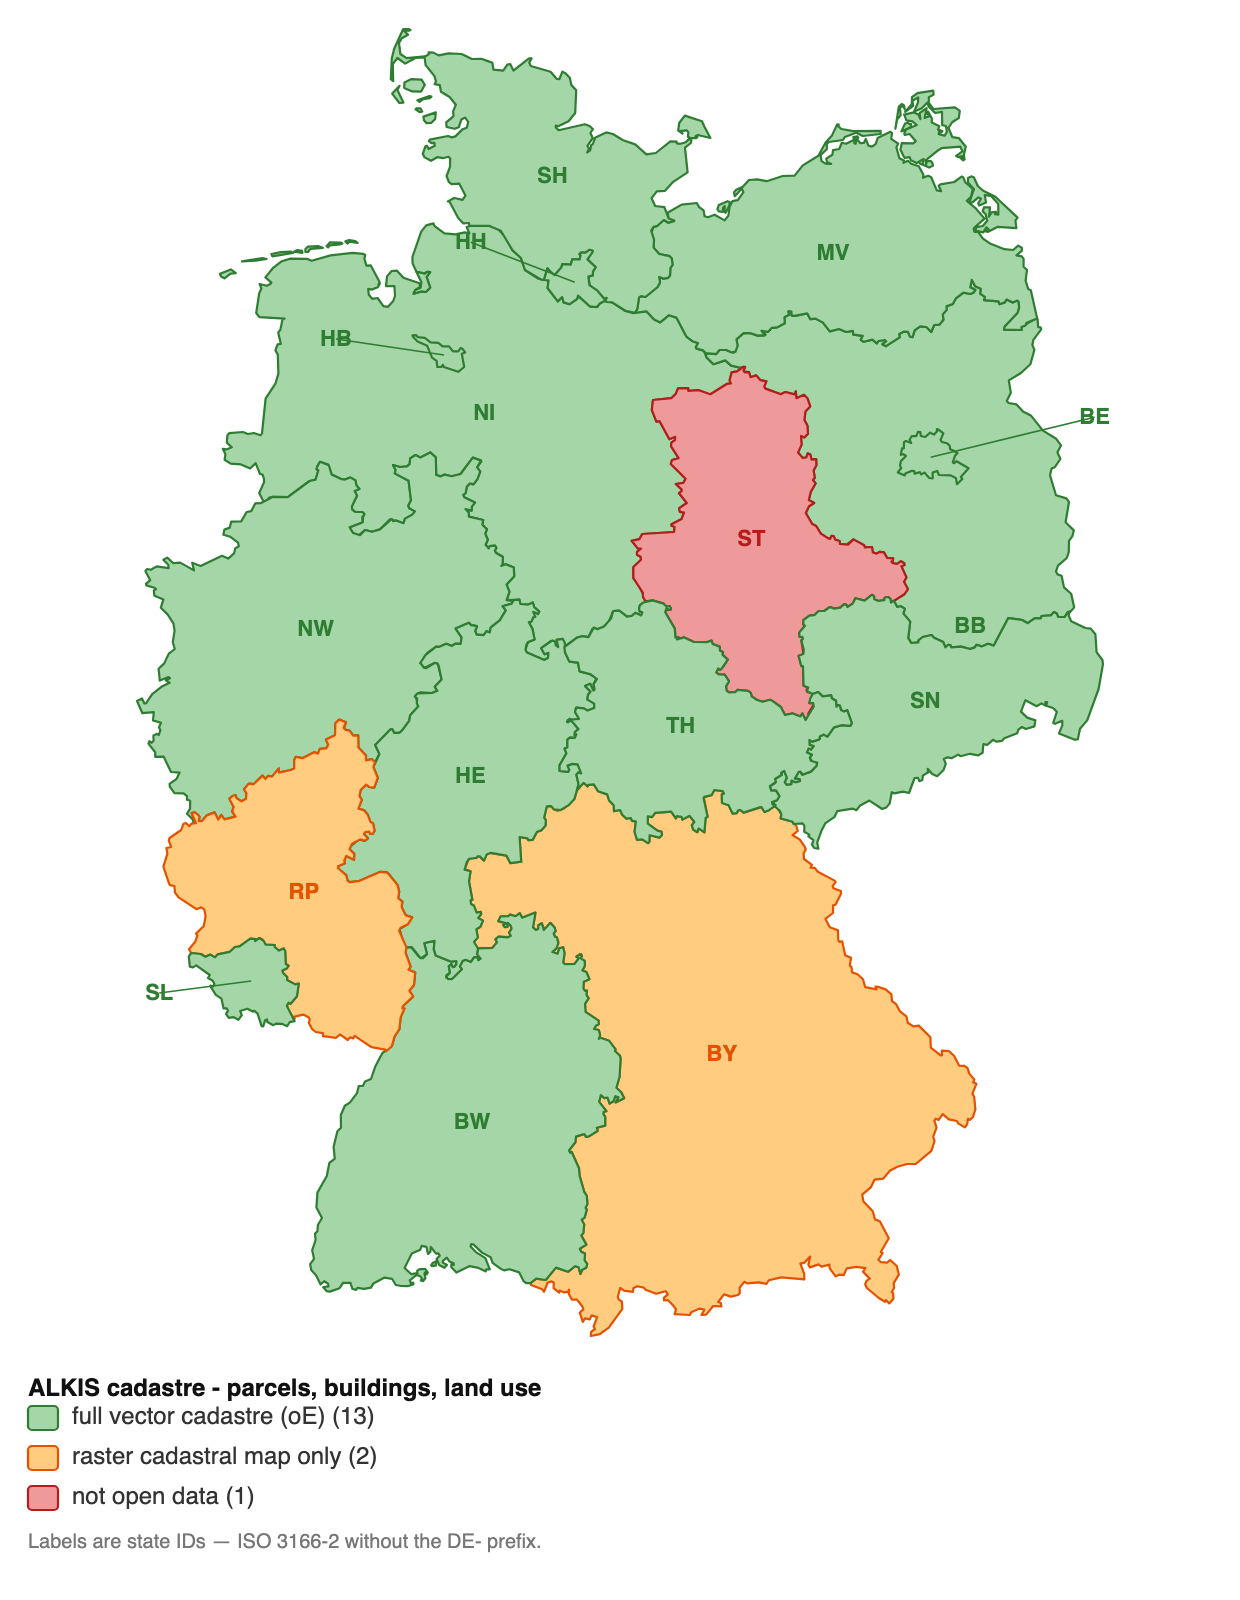
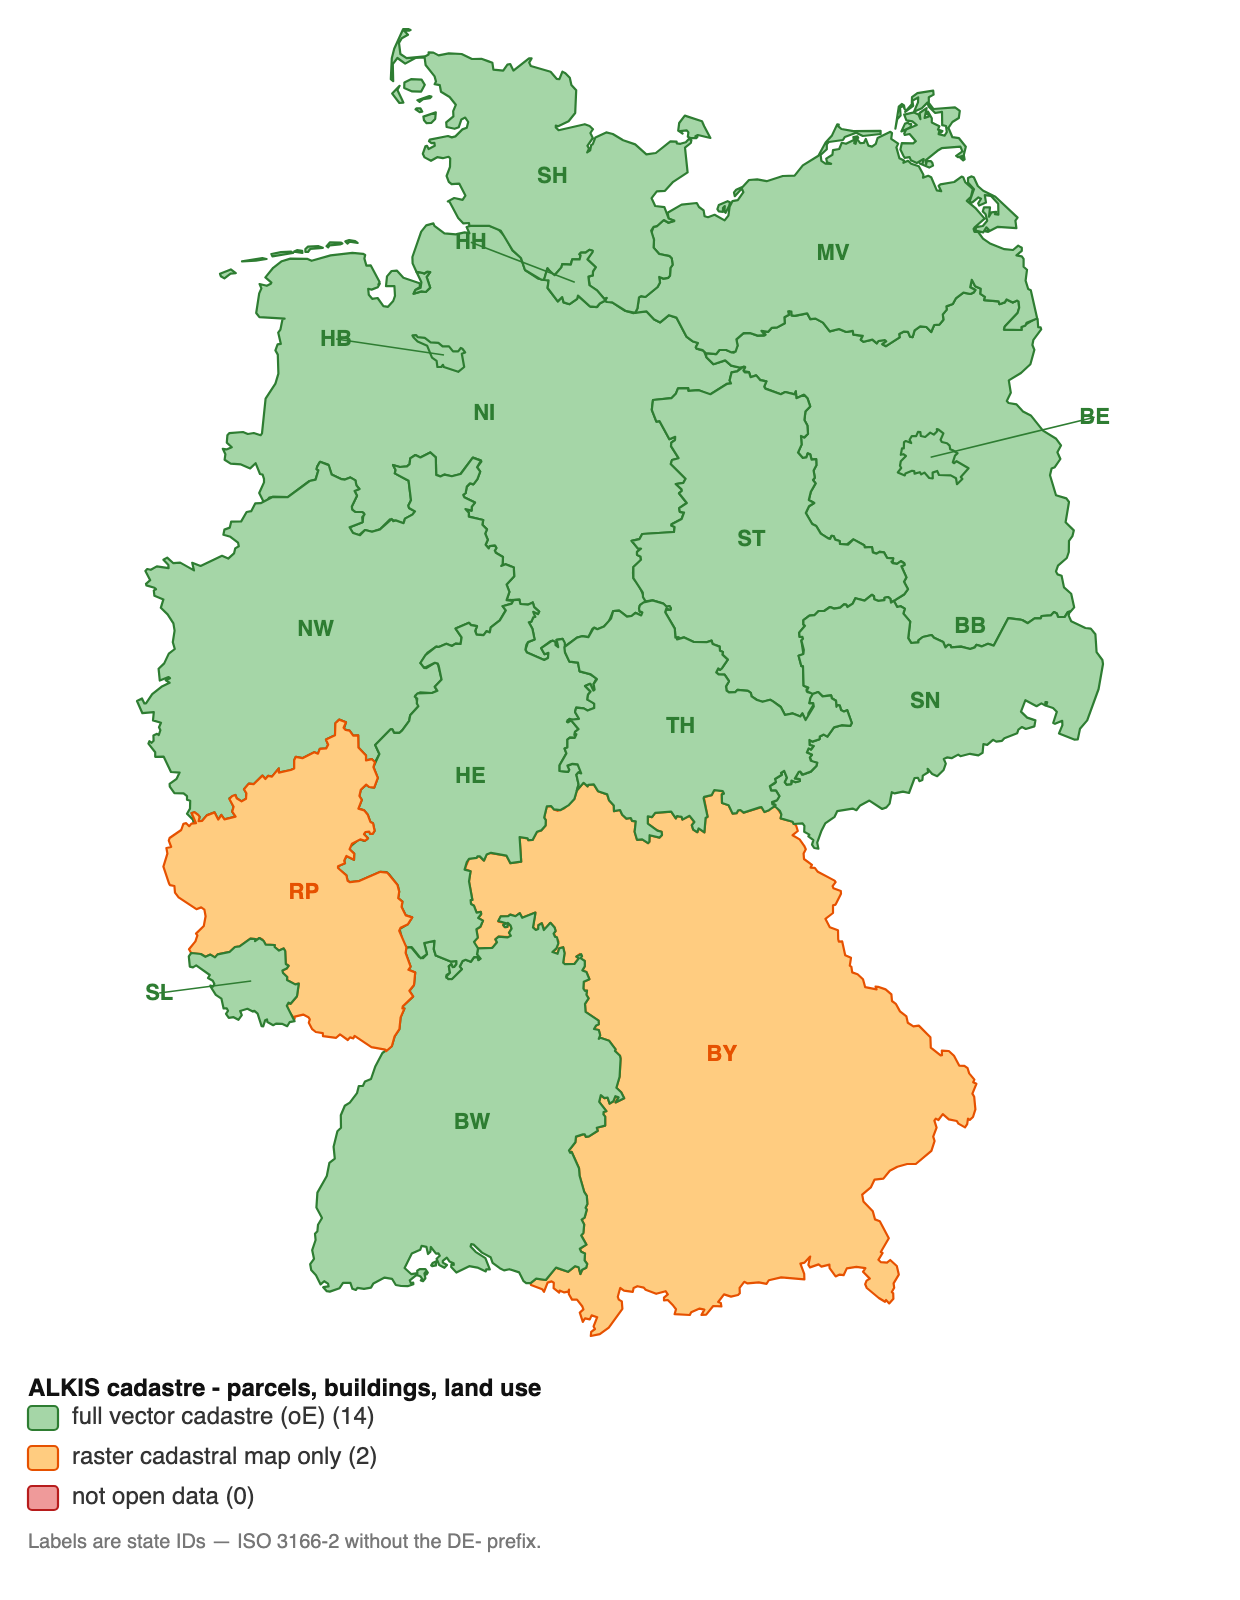
Sachsen-Anhalt does publish open ALKIS — correct the record
ST was listed as the one closed cadastre in Germany, needing a formal
request to LVermGeo. That is wrong. LVermGeo publishes

  ST_LVermGeo_ALKIS_WFS_OpenData/guest

an anonymous WFS 2.0 under DL-DE/BY 2.0, carrying ave:Flurstueck
(2,701,016), ave:GebaeudeBauwerk (1,737,515) and ave:Nutzung. Verified
2026-07-29: GetCapabilities, STARTINDEX paging across disjoint pages,
and a two-page download of real GML; sampled Salzwedel, Magdeburg,
Halle, Quedlinburg and Dessau for statewide spread.

It is the ALKIS-vereinfacht 2.0 schema, not full NAS — geometry plus
flstkennz/gemarkung/flur/flaeche/lagebeztxt, no Punktinformationen —
the same trade NW's gru_vereinfacht and SH's GeoJSON already make, so
it counts as green on the cadastre map.

  · download_alkis.sh: plan_st refused to run; it now drives the
    existing wfs2 engine with three datasets. No engine changes needed.
  · The cadastre map goes 13/2/1 -> 14/2/0. Nowhere in Germany is the
    cadastre closed.
  · The content gaps drop from three to two, BY and RP.
  · Footprints: ST now has a second route beside the Hausumringe ZIP.

Changed region(s): [[0.4903, 0.2188, 0.7355, 0.4688]]

diff --git a/coverage_map.py b/coverage_map.py
@@ -15,9 +15,9 @@ the answers on geometry, so a glance replaces a table read.
             red    terrain only -- the state publishes no point cloud                    (2)
 
   alkis     what does the state's cadastre actually contain?
-            green  full vector ALKIS ohne Eigentuemer                                   (13)
+            green  full vector ALKIS ohne Eigentuemer                                   (14)
             orange raster cadastral map only -- a picture of the parcels, not geometry   (2)
-            red    not open data                                                         (1)
+            red    not open data                                                         (0)
 
 Colour is per-map, not per-tier, because "worst" is a different question on each. The lidar
 map inverts the other two: red is the state with no point cloud to fetch, orange the one
@@ -74,7 +74,7 @@ HOUSES = {
     "rp": True,   # HAUSUMRINGE_RP.zip with a .meta4
     "sl": True,   # inside the per-Landkreis ALKIS packages
     "sn": True,   # hu_sn_shape.zip (ranged GET -- the share 401s on HEAD)
-    "st": True,   # Hausumringe.zip, direct; no ALKIS to carry it
+    "st": True,   # Hausumringe.zip, direct; also ave:GebaeudeBauwerk in the ALKIS WFS
     "sh": True,   # inside the statewide ALKIS GeoJSON
     "th": False,  # HU/HK are CAPTCHA-gated; ALKIS Shape/NAS is not, but see note below
 }

diff --git a/bundeslaender_to_geojson.py b/bundeslaender_to_geojson.py
@@ -103,7 +103,9 @@ COVERAGE = {
                lidar_dgm1=True, lidar_las=True, lidar_script=None, lidar_bbox=None,
                lidar_note="Open since 2023 including classified laser scan, but the advertised "
                           "Atom endpoint was not locatable and the web UI caps selection at 5 tiles.",
-               alkis="none", alkis_engine=None, alkis_spatial="none"),
+               # ALKIS-vereinfacht 2.0 over an anonymous WFS 2.0 (ST_LVermGeo_ALKIS_WFS_OpenData):
+               # parcels, buildings and Nutzung, no Punktinformationen. Verified 2026-07-29.
+               alkis="full", alkis_engine="wfs2", alkis_spatial="exact"),
     "th": dict(name_short="Thueringen",
                lidar_dgm1=True, lidar_las=True, lidar_script=None, lidar_bbox=None,
                lidar_note="gaialight app; overview.php/details.php need a 'type' key that is not "

diff --git a/README.md b/README.md
@@ -8,7 +8,7 @@ found, not because the data is gated.
 | Data | Downloader | Coverage |
 |------|------------|----------|
 | **LiDAR / terrain** | `download_<id>_lidar.sh` (`las`, `dgm1`) | 9 of 16 states |
-| **ALKIS (cadastre)** | `download_alkis.sh <id>` | 15 of 16 states |
+| **ALKIS (cadastre)** | `download_alkis.sh <id>` | 16 of 16 states |
 | **Hauskoordinaten / Hausumringe** | *(source inventory only, no script yet)* | [`hauskoordinaten-hausumringe.md`](hauskoordinaten-hausumringe.md) |
 | **Nationwide parcels, paid** | *(not scriptable — ships on a USB drive)* | [`flurstuecke-commercial.md`](flurstuecke-commercial.md) |
 
@@ -69,7 +69,7 @@ its `.png`, same image as vector, with a per-state tooltip the PNG cannot carry.
 | **BY** | Bayern | plots | Same single gap: ALKIS-Parzellarkarte is raster-only, vector parcels are sold through GeodatenOnline. Hausumringe are open (CC BY 4.0); Hauskoordinaten are priced. |
 | **BW** | Baden-Württemberg | point cloud | Full ALKIS + HU + HK, 125 GB of DGM1 — but the `3DM` point cloud is flagged inactive and every URL 404s. |
 | **NI** | Niedersachsen | point cloud | STAC exposes `dgm1` only. Cadastre and footprints are fine (`gebaeude` WFS); the standalone HK/HU products are priced. |
-| **TH**, **SH**, **ST**, **HE**, **HH**, **HB**, **SL** | — | point cloud + DTM | No anonymous bulk LiDAR endpoint found — portals, CAPTCHAs and order clients, not access restrictions. ST additionally has no open ALKIS at all. |
+| **TH**, **SH**, **ST**, **HE**, **HH**, **HB**, **SL** | — | point cloud + DTM | No anonymous bulk LiDAR endpoint found — portals, CAPTCHAs and order clients, not access restrictions. Their cadastre and footprints are fine. |
 
 ## Fetching all four today
 
@@ -177,11 +177,11 @@ Nutzung*), addresses. Each state runs its own, so each publishes it differently 
 all. Owner names (*Eigentümerangaben*) are **never** open data anywhere; what states release
 is the *ohne Eigentümer* (oE) variant.
 
-<img src="alkis_map.png" alt="Map of the 16 Bundesländer coloured by cadastre openness: green for the 13 states publishing full vector ALKIS ohne Eigentümer, orange for BY and RP which publish a raster cadastral map only, red for ST which does not publish it at all" width="560">
+<img src="alkis_map.png" alt="Map of the 16 Bundesländer coloured by cadastre openness: green for the 14 states publishing vector ALKIS ohne Eigentümer, orange for BY and RP which publish a raster cadastral map only" width="560">
 
-Thirteen states are green. The two orange ones are not a delivery problem — BY and RP publish
+Fourteen states are green. The two orange ones are not a delivery problem — BY and RP publish
 their cadastre as **raster**, so the download works fine and parcel geometry simply is not in
-what arrives. Only ST is closed.
+what arrives. **No state is fully closed.**
 
 **"Login"** below means a user account is needed to get the data; **"anonymous"** means plain
 HTTP with no credentials.
@@ -201,7 +201,7 @@ HTTP with no credentials.
 | **RP** | Rheinland-Pfalz | ⚠ **raster only** | **anonymous** | Metalink-4 | GeoTIFF cadastral map · 1 km tile | DL-DE/BY 2.0 |
 | **SL** | Saarland | ✅ full (oE) | **anonymous** | public WebDAV share | NAS, Shape · Landkreis (7) | DL-DE/BY 2.0 |
 | **SN** | Sachsen | ✅ full (oE) | **anonymous** | single ZIP | NAS · statewide | DL-DE/BY 2.0 |
-| **ST** | Sachsen-Anhalt | ❌ **not open** | — | (formal request to LVermGeo) | — | — |
+| **ST** | Sachsen-Anhalt | ✅ vereinfacht (oE) | **anonymous** | WFS 2.0 only | GML · statewide (~2.7 M parcels) | DL-DE/BY 2.0 |
 | **SH** | Schleswig-Holstein | ✅ full (oE) | **anonymous** | single file | GeoJSON · statewide (~243 MB) | CC BY 4.0 |
 | **TH** | Thüringen | ✅ full (oE) | **anonymous** | INSPIRE ATOM feed | Shape, NAS · Flur (~16,500) | DL-DE/BY 2.0 |
 
@@ -226,16 +226,15 @@ What `download_alkis.sh` actually fetches, per state:
 | `sn` | Sachsen | `nas` | statewide | one ZIP |
 | `sh` | Schleswig-Holstein | `geojson` | statewide | ~243 MB |
 | `th` | Thüringen | `shape`, `nas` | Flur (~16,500) | ~1.2 GB |
-| `st` | Sachsen-Anhalt | — | — | **not published** |
+| `st` | Sachsen-Anhalt | `flurstueck`, `gebaeude`, `nutzung` | WFS pages | ~2.7 M parcels |
 
 `bw`, `by` and `rp` come with a caveat printed at run time — Bayern publishes no open vector
-parcels and RP only a rasterised cadastral map. `st` exits with an explanation rather than
-pretending there is something to fetch.
+parcels and RP only a rasterised cadastral map.
 
-## The three content gaps
+## The two content gaps
 
-**No state requires a login for the data listed above.** Thirteen states publish the full
-cadastre openly; the three exceptions are content gaps at the source, not access barriers:
+**No state requires a login for the data listed above.** Fourteen states publish vector
+cadastre openly; the two exceptions are content gaps at the source, not access barriers:
 
 - **Bayern** — the *ALKIS-Parzellarkarte* is published as **raster only** (WMS/WMTS and
   GeoTIFF via Metalink). Open vector products are limited to *Tatsächliche Nutzung*
@@ -245,17 +244,20 @@ cadastre openly; the three exceptions are content gaps at the source, not access
 - **Rheinland-Pfalz** — publishes the **rasterised** Liegenschaftskarte (`lika`, ~20,500
   GeoTIFF tiles, ~31 GB) and *Hausumringe*, but no bulk vector ALKIS. Parcel geometry is
   reachable only per-query through the Flurstückssuche WFS.
-- **Sachsen-Anhalt** — the LVermGeo open-data catalogue carries only ALKIS *derivatives*
-  (digitale Verwaltungsgrenzen, Hausumringe, Hauskoordinaten). Parcels and cadastral
-  attributes need a formal request.
-
-All three are closed by paying. RP and ST sit inside **FS-DE** (15 states, ~54 M parcels, *ab*
-€27,000 from the ZSHH), Bayern only in **FS-BY** (€56,000 from the LDBV); neither has a
-download endpoint — FS-DE arrives on a returnable USB drive. For **RP** there is a much cheaper
-third route: the CISS-Shop sells RP vector ALKIS for a drawn polygon at official state fees, as
+Both are closed by paying. RP sits inside **FS-DE** (15 states, ~54 M parcels, *ab* €27,000
+from the ZSHH), Bayern only in **FS-BY** (€56,000 from the LDBV); neither has a download
+endpoint — FS-DE arrives on a returnable USB drive. For **RP** there is a much cheaper third
+route: the CISS-Shop sells RP vector ALKIS for a drawn polygon at official state fees, as
 DXF/Shape/NAS. Costs, licences, the free FS-DE test Shapefile and the wider commercial market
 (geomer, infas 360, Nexiga, CISS TDI, per-object retail):
 [`flurstuecke-commercial.md`](flurstuecke-commercial.md).
+
+**Sachsen-Anhalt used to be listed here as a third gap.** It is not one: LVermGeo publishes
+`ST_LVermGeo_ALKIS_WFS_OpenData`, an anonymous WFS 2.0 carrying `ave:Flurstueck` (~2.7 M),
+`ave:GebaeudeBauwerk` (~1.7 M) and `ave:Nutzung` under DL-DE/BY 2.0. It is the
+**ALKIS-vereinfacht 2.0** schema rather than full NAS — geometry plus the cadastral keys
+(`flstkennz`, `gemarkung`, `flur`, `flaeche`, `lagebeztxt`), no Punktinformationen — which is
+the same trade NW's `gru_vereinfacht` and SH's GeoJSON make. Verified 2026-07-29.
 
 Two portals do sit behind a login, but neither is the only route to their state's data:
 
@@ -266,8 +268,8 @@ Two portals do sit behind a login, but neither is the only route to their state'
   the statewide open datasets on a **password-less public Nextcloud share**, which is what
   the downloader reads.
 
-Four states publish **services only** — no file packages exist, so a bulk copy means paging
-a WFS or OGC API (`download_alkis.sh` does this automatically): BE, HB, NI, HE.
+Five states publish **services only** — no file packages exist, so a bulk copy means paging
+a WFS or OGC API (`download_alkis.sh` does this automatically): BE, HB, NI, HE, ST.
 
 All ALKIS data above is in **ETRS89 / UTM** (EPSG:25832, EPSG:25833 in the east).
 

diff --git a/flurstuecke-commercial.md b/flurstuecke-commercial.md
@@ -18,15 +18,13 @@ covers **building** data too, since almost every vendor sells parcels and buildi
 
 # 1. What the money actually buys
 
-The open route already delivers full vector ALKIS for **13 states**. The three gaps — BY, RP,
-ST, see [The three content gaps](README.md#the-three-content-gaps) — are exactly what the paid
-route closes, and it is the only thing that closes them.
+The open route already delivers vector ALKIS for **14 states**. Only two gaps remain — BY and
+RP, see [The two content gaps](README.md#the-two-content-gaps).
 
 | | Open (`download_alkis.sh`) | FS-DE (ZSHH) | FS-BY (LDBV) |
 |---|---|---|---|
-| States | 13 vector + BY/RP raster | **15** — all but Bayern | Bayern only |
+| States | 14 vector + BY/RP raster | **15** — all but Bayern | Bayern only |
 | Fills **RP** | ❌ raster only | ✅ | — |
-| Fills **ST** | ❌ not published | ✅ | — |
 | Fills **BY** | ❌ raster only | ❌ | ✅ |
 | Cost | €0 | **from €27,000** | **€56,000** |
 
@@ -34,11 +32,12 @@ The table compares the two *official* routes. There is a third for RP: the CISS-
 vector ALKIS for a chosen polygon at official state fees, far below a statewide licence —
 [§5.2](#52-area-of-interest-procurement--the-model-closest-to-this-repo).
 
-So the €27,000 is mostly paying again for data 13 states already give away — what is *new* in
-it is Rheinland-Pfalz and Sachsen-Anhalt. Bayern is the expensive one: **40% of the total bill
-for ~17% of the parcels**, and the single state no route makes free.
+So the €27,000 buys one state's worth of new geometry — Rheinland-Pfalz — on top of 14 that are
+already free. **Sachsen-Anhalt used to be counted here as a second gap and is not one**: it
+publishes an open ALKIS WFS, verified 2026-07-29. Bayern is the expensive one: **40% of the
+total bill for ~17% of the parcels**, and the single state no route makes free.
 
-What you also buy, for the 13 states you could have fetched yourself: one schema instead of
+What you also buy, for the 14 states you could have fetched yourself: one schema instead of
 fifteen, one CRS decision, one quarterly cycle, and no NAS parsing. That is the real product —
 convenience, not coverage.
 
@@ -55,7 +54,7 @@ up so buyers sign one contract instead of negotiating with 16 state agencies.
 |---|---|
 | Content | georeferenced Umringpolygone of all Flurstücke — **geometry only** |
 | Records | ~54 million |
-| Coverage | 15 states — BW, BE, BB, HB, HH, HE, MV, NI, NW, **RP**, SL, SN, **ST**, SH, TH. **No Bayern** |
+| Coverage | 15 states — BW, BE, BB, HB, HH, HE, MV, NI, NW, **RP**, SL, SN, ST, SH, TH. **No Bayern** |
 | Attributes | Objektidentifikator · ALKIS-Flurstückskennzeichen · Gemarkung + Flurstücksnummer · AGS · textual Lagebezeichnung |
 | Not included | **owners** (as everywhere), **tatsächliche Nutzung**, Grenzpunkte — the polygons carry no boundary points |
 | Format | Shapefile |
@@ -223,7 +222,7 @@ need no vendor at all.
 5. **Grab the free FS-DE test Shapefile** before any of the above. Comparing its schema with
    `download_alkis.sh` output for the same area is the cheapest way to learn what the paid
    normalisation is actually worth — and it is 1.7 MB.
-6. **The nationwide-single-file itch is a normalisation project, not a purchase.** Thirteen
+6. **The nationwide-single-file itch is a normalisation project, not a purchase.** Fourteen
    states already give you the geometry; what FS-DE sells on top is one schema and one CRS
    policy. That is buildable here, and the DFB V 1.2.1 spec is public — using FS-DE's field
    names as the target schema costs nothing.

diff --git a/hauskoordinaten-hausumringe.md b/hauskoordinaten-hausumringe.md
@@ -246,6 +246,10 @@ Verified 200, 141,904,618 B. Shape, EPSG:25832, **>1.6 M** records, 2×/year.
 `Hauskoordinaten.zip` at the same path → 404: HK is issued on request (68 €/200 objects) or
 via the ZSHH, **not** as a self-service file.
 
+Second route, added 2026-07-29: `ave:GebaeudeBauwerk` (~1.7 M) in the open ALKIS WFS —
+`./download_alkis.sh st gebaeude`. The ZIP is still the faster fetch; the WFS wins if you want
+footprints and parcels from one source with matching keys.
+
 ## Schleswig-Holstein — LVermGeo SH
 
 Both HU and HK are free, but only through an interactive **gaialight Downloadclient**:
